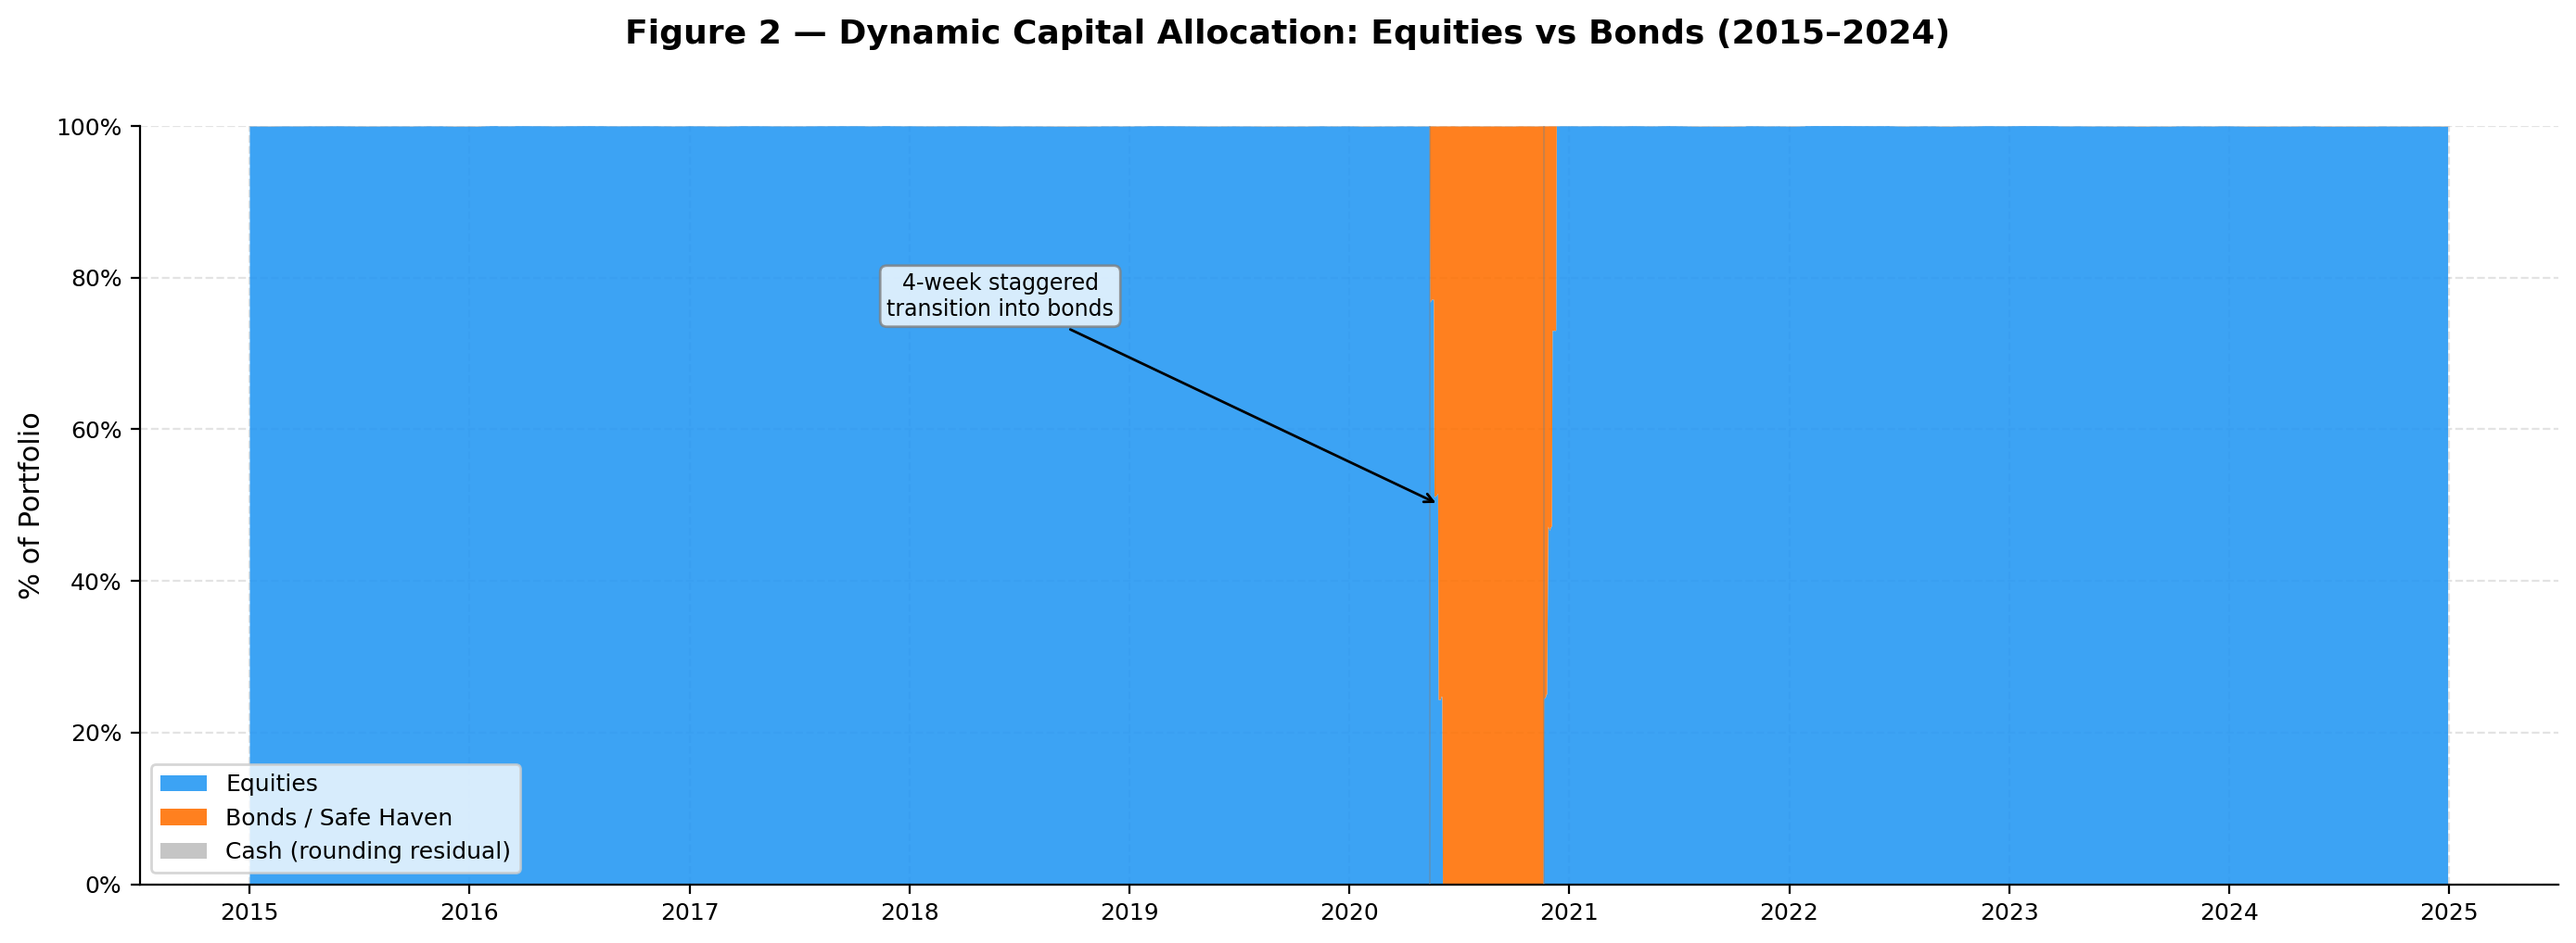
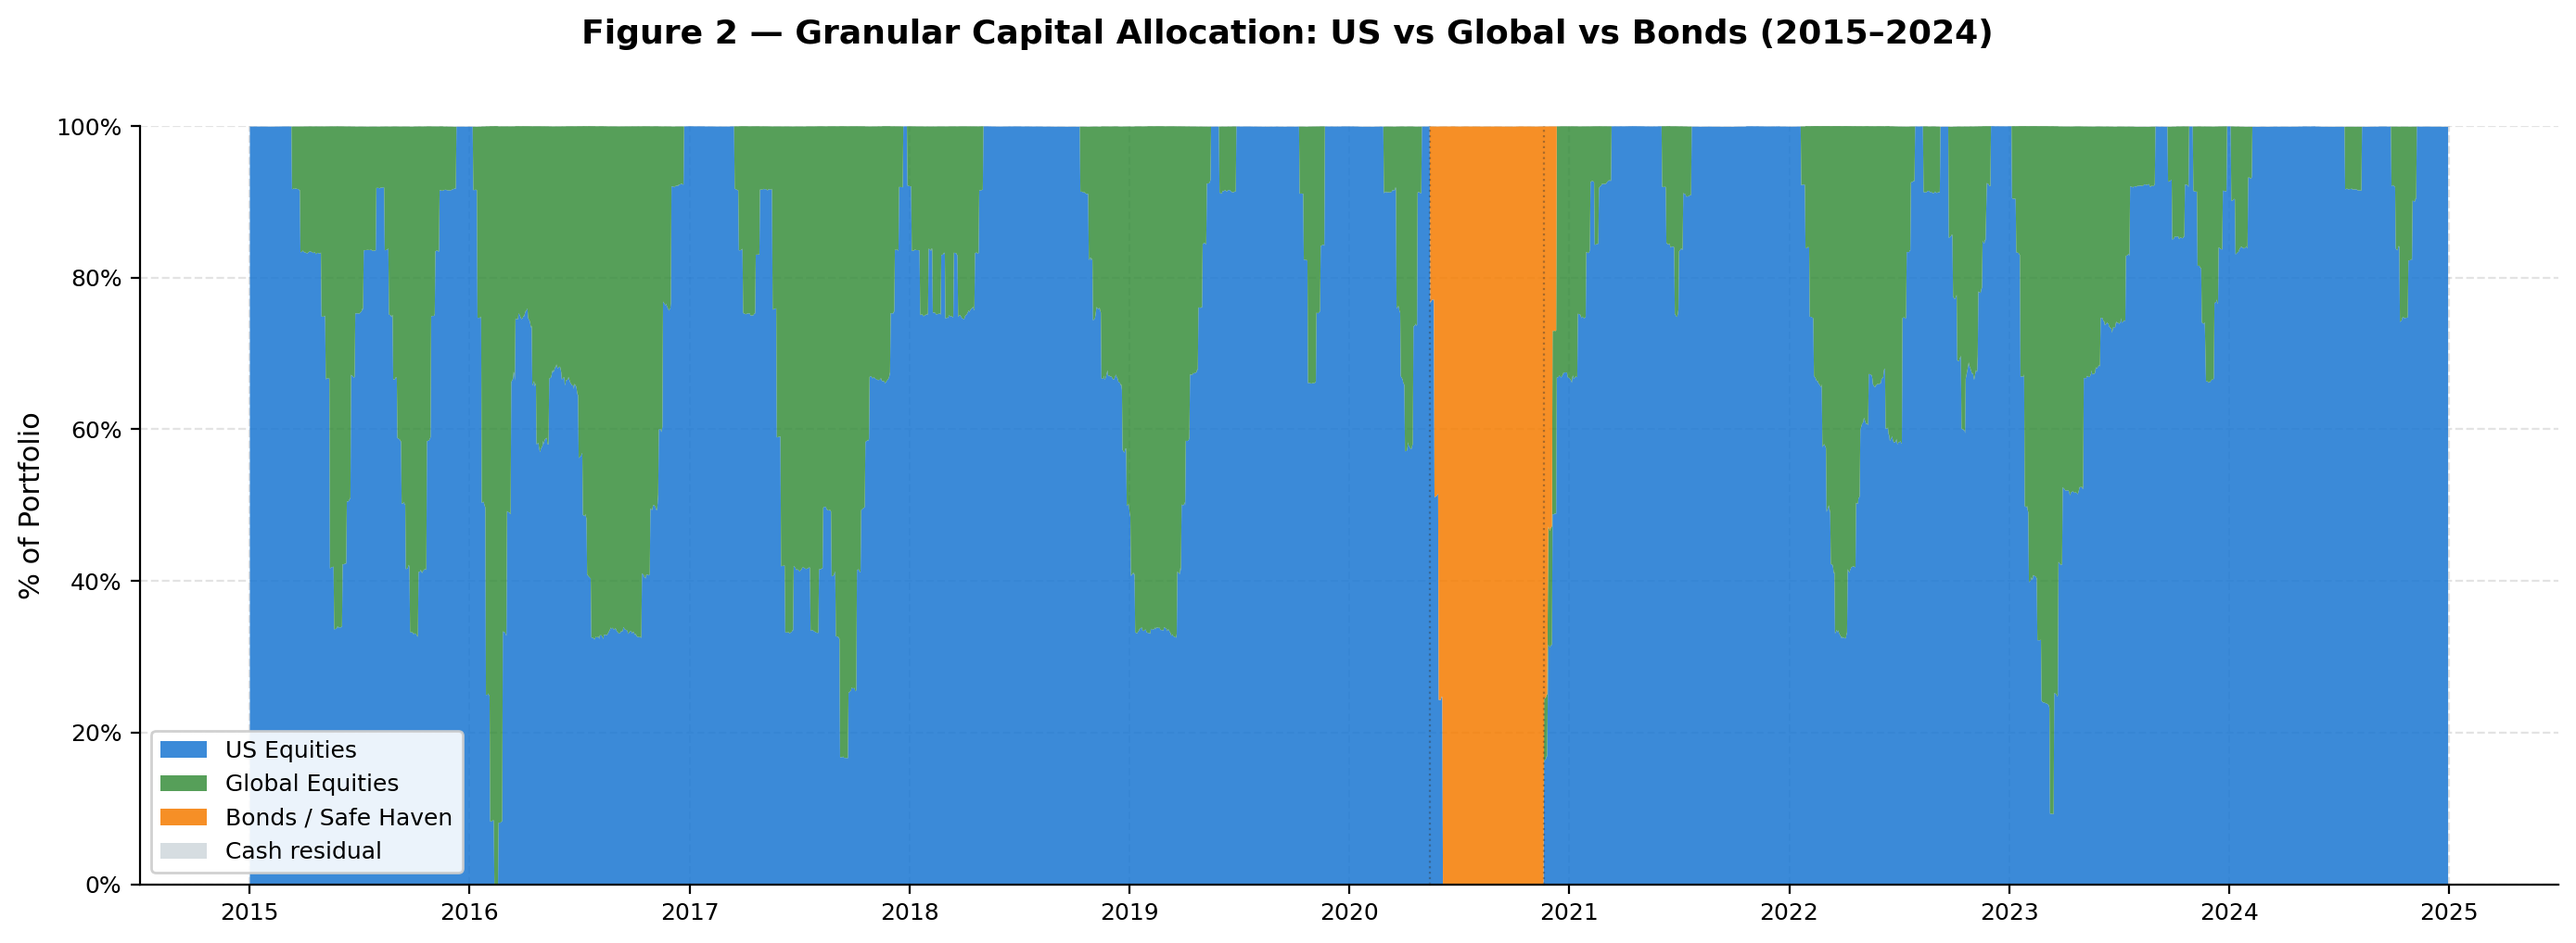
Fix bug where Figure 2 was SKIPPED due to renamed tracking columns

diff --git a/run_step4.py b/run_step4.py
@@ -218,11 +218,11 @@ if __name__ == "__main__":
     plot_regime_overlay(prices=prices, regime=regime, start=OOS_START, end=OOS_END)
 
     # ── Figure 2: Capital Allocation ──────────────────────────────────────
-    if "equity_value" in daily.columns and "bond_value" in daily.columns:
-        print("  Figure 2: Dynamic capital allocation stacked area …")
+    if "us_equity_value" in daily.columns or "equity_value" in daily.columns:
+        print("  Figure 2: Granular capital allocation stacked area …")
         plot_capital_allocation(daily=daily, regime=regime)
     else:
-        print("  Figure 2: SKIPPED — equity/bond columns not in daily_df")
+        print("  Figure 2: SKIPPED — tracking columns not in daily_df")
 
     # ── Figure 3: Equity Curves + Drawdown ───────────────────────────────
     print("  Figure 3: Cumulative equity curves + drawdown …")
